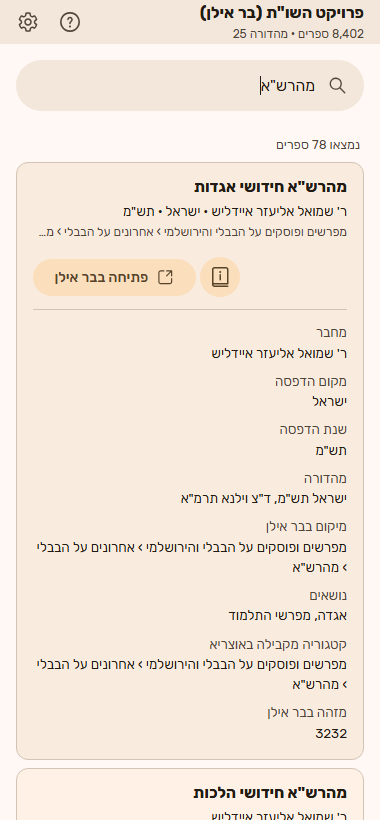
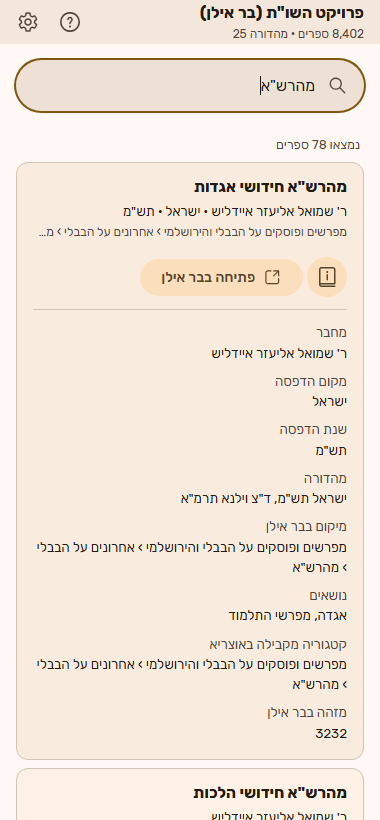
תוסף 0.2.2: יישור לימין במסך הפתיחה, בחלון צר, בדיווח ובמצב המערכת
- כפתורי מסך הפתיחה וכפתורי התוצאה בחלון צר ב-flex-start (ימין בעברית).
- תיבת הדיווח הריקה מקבלת את כיוון הממשק, כמו שדה החיפוש.
- ערכי LTR במצב המערכת ושורות היומן ב-<bdi>: הכיוון שלהם נשמר, והשורה
  מיושרת לפי הממשק.

diff --git a/plugin/css/style.css b/plugin/css/style.css
@@ -362,13 +362,15 @@ textarea {
   color: var(--color-on-surface-variant);
 }
 
-/* השדה ב-dir="auto" כדי ששם עברי יוצג נכון גם בממשק באנגלית. שדה ריק
+/* השדות ב-dir="auto" כדי שטקסט עברי יוצג נכון גם בממשק באנגלית. שדה ריק
    מקבל את כיוון הממשק: אחרת הטקסט המנחה והסמן היו נצמדים לשמאל. */
-.search-input:placeholder-shown {
+.search-input:placeholder-shown,
+.report-text:placeholder-shown {
   direction: rtl;
 }
 
-[dir='ltr'] .search-input:placeholder-shown {
+[dir='ltr'] .search-input:placeholder-shown,
+[dir='ltr'] .report-text:placeholder-shown {
   direction: ltr;
 }
 
@@ -506,7 +508,7 @@ textarea {
   }
 
   .result-actions {
-    justify-content: flex-end;
+    justify-content: flex-start;
   }
 
   .result-details {
@@ -1274,10 +1276,6 @@ textarea {
   overflow-wrap: anywhere;
 }
 
-.facts dd[dir='ltr'] {
-  text-align: end;
-}
-
 /* בחלון צר: תווית מעל ערך, כדי שנתיב ארוך לא יישבר לשורות של מילה. */
 @media (max-width: 520px) {
   .facts {
@@ -1287,10 +1285,6 @@ textarea {
 
   .facts dd + dt {
     margin-top: var(--space-2);
-  }
-
-  .facts dd[dir='ltr'] {
-    text-align: start;
   }
 }
 
@@ -1473,7 +1467,7 @@ textarea {
 }
 
 .welcome-actions {
-  justify-content: flex-end;
+  justify-content: flex-start;
 }
 
 /* ---------- קישורים ("אודות") ---------- */

diff --git a/plugin/js/responsa-panels.js b/plugin/js/responsa-panels.js
@@ -606,7 +606,8 @@
         { class: 'facts' },
         statusFacts(model).map(([label, value, dir]) => [
           el('dt', {}, label),
-          el('dd', { dir: dir || null }, value),
+          // <bdi>: נתיב או גרסה נקראים משמאל לימין, אבל השורה מיושרת לתווית.
+          el('dd', {}, dir ? el('bdi', { dir }, value) : value),
         ]),
       ),
       el(
@@ -650,8 +651,8 @@
                 'li',
                 { class: 'log-line', dataset: { level: entry.level } },
                 el('time', { class: 'log-time', dir: 'ltr' }, root.ResponsaLog.clock(entry.time)),
-                el('span', { class: 'log-message', dir: 'auto' }, entry.message),
-                entry.detail ? el('span', { class: 'log-detail', dir: 'auto' }, entry.detail) : null,
+                el('span', { class: 'log-message' }, el('bdi', {}, entry.message)),
+                entry.detail ? el('span', { class: 'log-detail' }, el('bdi', {}, entry.detail)) : null,
               ),
             ),
           )

diff --git a/tools/preview/stub.js b/tools/preview/stub.js
@@ -84,7 +84,7 @@
               ok: true,
               service: 'otzaria-responsa',
               apiVersion: scenario === 'serviceOutdated' ? 2 : 1,
-              serverVersion: '0.2.1',
+              serverVersion: '0.2.2',
               capabilities: ['catalog', 'open', 'icon', 'searchText', 'export'],
             };
       case '/status':
@@ -137,7 +137,7 @@
 
   window.addEventListener('load', () => {
     const payload = {
-      plugin: { id: 'com.otzaria-responsa', version: '0.2.1' },
+      plugin: { id: 'com.otzaria-responsa', version: '0.2.2' },
       app: {
         version: '0.9.97',
         platform: scenario === 'unsupported' ? 'linux' : 'windows',

diff --git a/helper/lib/src/server/helper_service.dart b/helper/lib/src/server/helper_service.dart
@@ -26,7 +26,7 @@ class HelperService {
   }
 
   static const String serviceId = 'otzaria-responsa';
-  static const String serverVersion = '0.2.1';
+  static const String serverVersion = '0.2.2';
   static const int apiVersion = 1;
   static const List<String> capabilities = [
     'catalog',

diff --git a/CHANGELOG.md b/CHANGELOG.md
@@ -1,5 +1,16 @@
 # שינויים
 
+## 0.2.2
+
+### תוסף
+
+- **יישור לימין בעוד מקומות:**
+  - כפתורי מסך הפתיחה ("הבנתי, בואו נתחיל", "איך משתמשים") בתחילת השורה, ולא בשמאל;
+  - בחלון צר, "פתיחה בבר אילן" ו"פרטי הספר" מתחת לשם הספר מימין;
+  - תיבת "דיווח על בעיה": הטקסט המנחה והסמן בימין כשהתיבה ריקה;
+  - "מצב המערכת": מיקום ההתקנה והגרסאות מיושרים לתווית שלהם (גם בחלון צר);
+  - "פעולות אחרונות": שורה שמתחילה באנגלית מיושרת כמו השאר.
+
 ## 0.2.1
 
 ### תוסף
